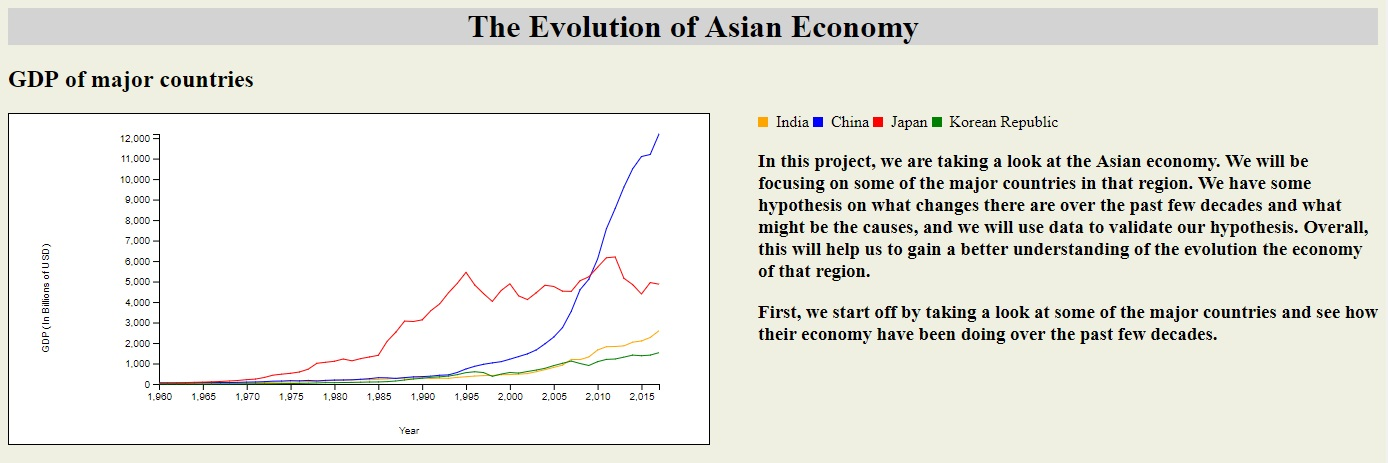
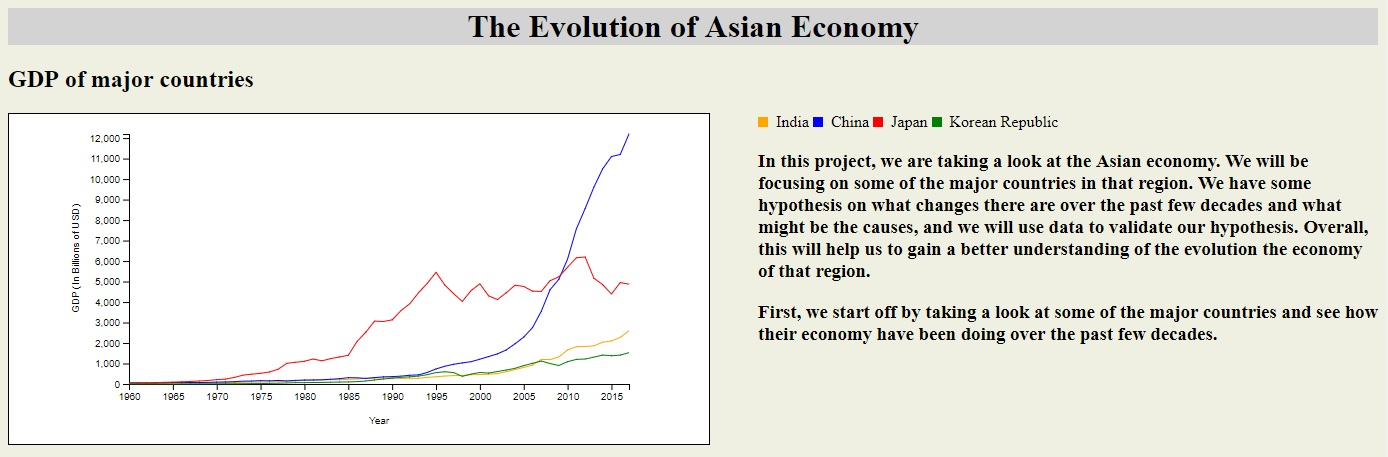
removed commas in years, updated graph + axis layouts

diff --git a/index.html b/index.html
@@ -100,7 +100,7 @@
         <h1>The Evolution of Asian Economy</h1>
         <h2> GDP of major countries </h2>
         <svg id="container1" height="330" width="700" class="column">
-            <g id="body" transform="translate(150,20)"></g>
+            <g id="body" transform="translate(120,20)"></g>
             <div class="legend1">
                 <p class="country-name">
                     <span class="key-dot india"></span>India <span class="key-dot china"></span>China
@@ -119,7 +119,7 @@
         <div class="clearfix" id="Q2">
             <h2> Shift of India's focus from the service sector to the agricultural sector</h2>
             <svg id="container2" height="330" width="700" class="column">
-              <g id="body2" transform="translate(150,20)"></g>
+              <g id="body2" transform="translate(120,20)"></g>
               <div class="legend1">
                   <p class="country-name">
                       <span class="key-dot india"></span>Agriculture <span class="key-dot china"></span>Services
@@ -133,7 +133,7 @@
         <div class="clearfix" id="Q3">
             <h2> Percentage of GDP on Research and Development</h2>
             <svg id="container3" height="330" width="700" class="column">
-                <g id="body3" transform="translate(150,20)"></g>
+                <g id="body3" transform="translate(120,20)"></g>
                 <div class="legend1">
                     <p class="country-name">
                         <span class="key-dot india"></span>India <span class="key-dot china"></span>China
@@ -148,7 +148,7 @@
         <div class="clearfix" id="Q4">
             <h2> Scientific and Technical Development helped in attracting Foreign Investment in China? </h2>
             <svg id="container4" height="330" width="700" class="column">
-              <g id="body4" transform="translate(150,20)"></g>
+              <g id="body4" transform="translate(120,20)"></g>
               <div class="legend1">
                   <p class="country-name">
                       <span class="key-dot india"></span>RnD <span class="key-dot china"></span>Foreign Investment
@@ -162,7 +162,7 @@
         <div class="clearfix" id="Q5">
             <h2> Focus on Healthcare </h2>
             <svg id="container5" height="330" width="700" class="column">
-                <g id="body5" transform="translate(150,20)"></g>
+                <g id="body5" transform="translate(120,20)"></g>
                 <div class="legend1">
                     <p class="country-name">
                         <span class="key-dot india"></span>India <span class="key-dot china"></span>China
@@ -219,15 +219,16 @@
             .append("text")
             .text("GDP (In Billions of USD)")
             .attr("fill", "black")
-            .attr("transform", `rotate(270,${0},${110})`)
+            .attr("transform", `rotate(270,${10},${60})`)
         body.append("g")
             .attr("transform", "translate(0," + bodyHeight + ")")
-            .call(d3.axisBottom(xScale))
+            .call(d3.axisBottom(xScale)
+                .tickFormat(d3.format("d")))
             .append("text")
             .text("Year")
             .attr("fill", "black")
             .attr("dx", bodyWidth / 2)
-            .attr("dy", 50)
+            .attr("dy", 40)
         valueline_india = d3.line()
             .x(d => xScale(d.Year))
             .y(d => yScale(d.India))
@@ -276,15 +277,16 @@ d3.csv("ques_2.csv").then(showData2)
         .append("text")
         .text("Percentage of GDP")
         .attr("fill", "black")
-        .attr("transform", `rotate(270,${0},${110})`)
+        .attr("transform", `rotate(270,${10},${60})`)
     body2.append("g")
         .attr("transform", "translate(0," + bodyHeight + ")")
-        .call(d3.axisBottom(xScale))
+        .call(d3.axisBottom(xScale)
+            .tickFormat(d3.format("d")))
         .append("text")
         .text("Year")
         .attr("fill", "black")
         .attr("dx", bodyWidth / 2)
-        .attr("dy", 50)
+        .attr("dy", 40)
     valueline_agri = d3.line()
         .x(d => xScale(d.Year))
         .y(d => yScale(d.Agriculture))
@@ -320,15 +322,16 @@ d3.csv("ques_2.csv").then(showData2)
             .append("text")
             .text("Percentage of GDP")
             .attr("fill", "black")
-            .attr("transform", `rotate(270,${0},${110})`)
+            .attr("transform", `rotate(270,${10},${60})`)
         body3.append("g")
             .attr("transform", "translate(0," + bodyHeight + ")")
-            .call(d3.axisBottom(xScale))
+            .call(d3.axisBottom(xScale)
+                .tickFormat(d3.format("d")))
             .append("text")
             .text("Year")
             .attr("fill", "black")
             .attr("dx", bodyWidth / 2)
-            .attr("dy", 50)
+            .attr("dy", 40)
         valueline_india = d3.line()
             .x(d => xScale(d.Year))
             .y(d => yScale(d.India))
@@ -376,15 +379,16 @@ d3.csv("ques_2.csv").then(showData2)
             .append("text")
             .text("Billions of USD")
             .attr("fill", "black")
-            .attr("transform", `rotate(270,${0},${110})`)
+            .attr("transform", `rotate(270,${10},${60})`)
         body4.append("g")
             .attr("transform", "translate(0," + bodyHeight + ")")
-            .call(d3.axisBottom(xScale))
+            .call(d3.axisBottom(xScale)
+                .tickFormat(d3.format("d")))
             .append("text")
             .text("Year")
             .attr("fill", "black")
             .attr("dx", bodyWidth / 2)
-            .attr("dy", 50)
+            .attr("dy", 40)
         valueline_rnd = d3.line()
             .x(d => xScale(d.Year))
             .y(d => yScale(d.RnD / 100 * d.GDP))
@@ -420,15 +424,16 @@ d3.csv("ques_2.csv").then(showData2)
             .append("text")
             .text("Percentage of GDP")
             .attr("fill", "black")
-            .attr("transform", `rotate(270,${0},${110})`)
+            .attr("transform", `rotate(270,${10},${60})`)
         body5.append("g")
             .attr("transform", "translate(0," + bodyHeight + ")")
-            .call(d3.axisBottom(xScale))
+            .call(d3.axisBottom(xScale)
+                .tickFormat(d3.format("d")))
             .append("text")
             .text("Year")
             .attr("fill", "black")
             .attr("dx", bodyWidth / 2)
-            .attr("dy", 50)
+            .attr("dy", 40)
         valueline_india = d3.line()
             .x(d => xScale(d.Year))
             .y(d => yScale(d.India))
